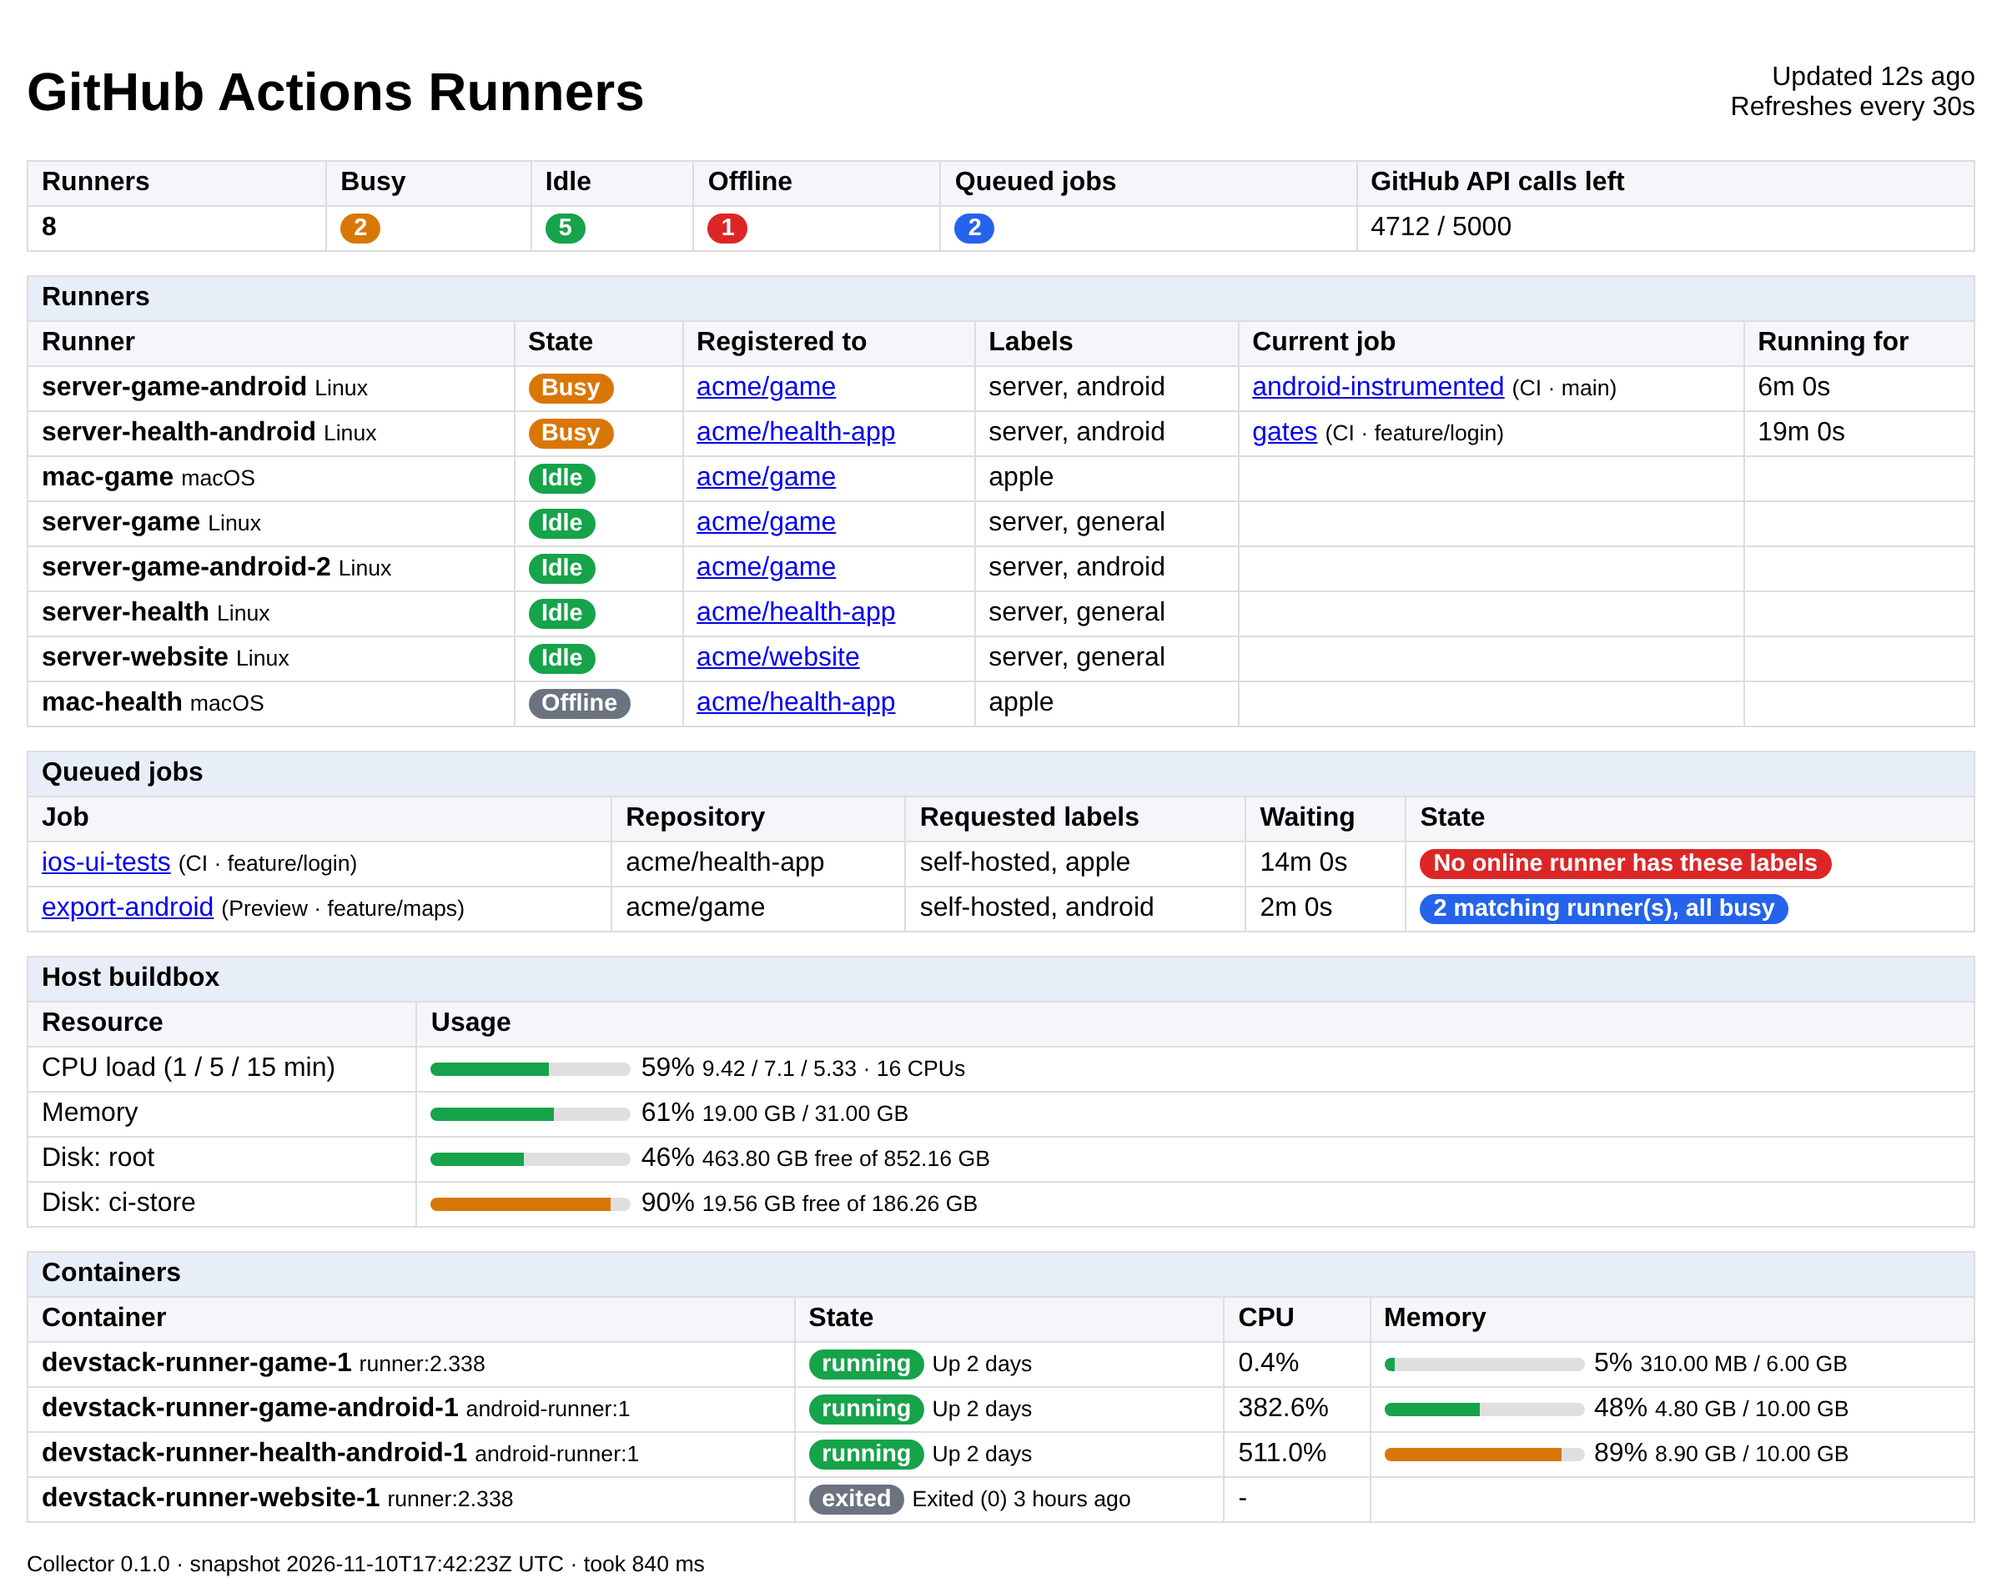
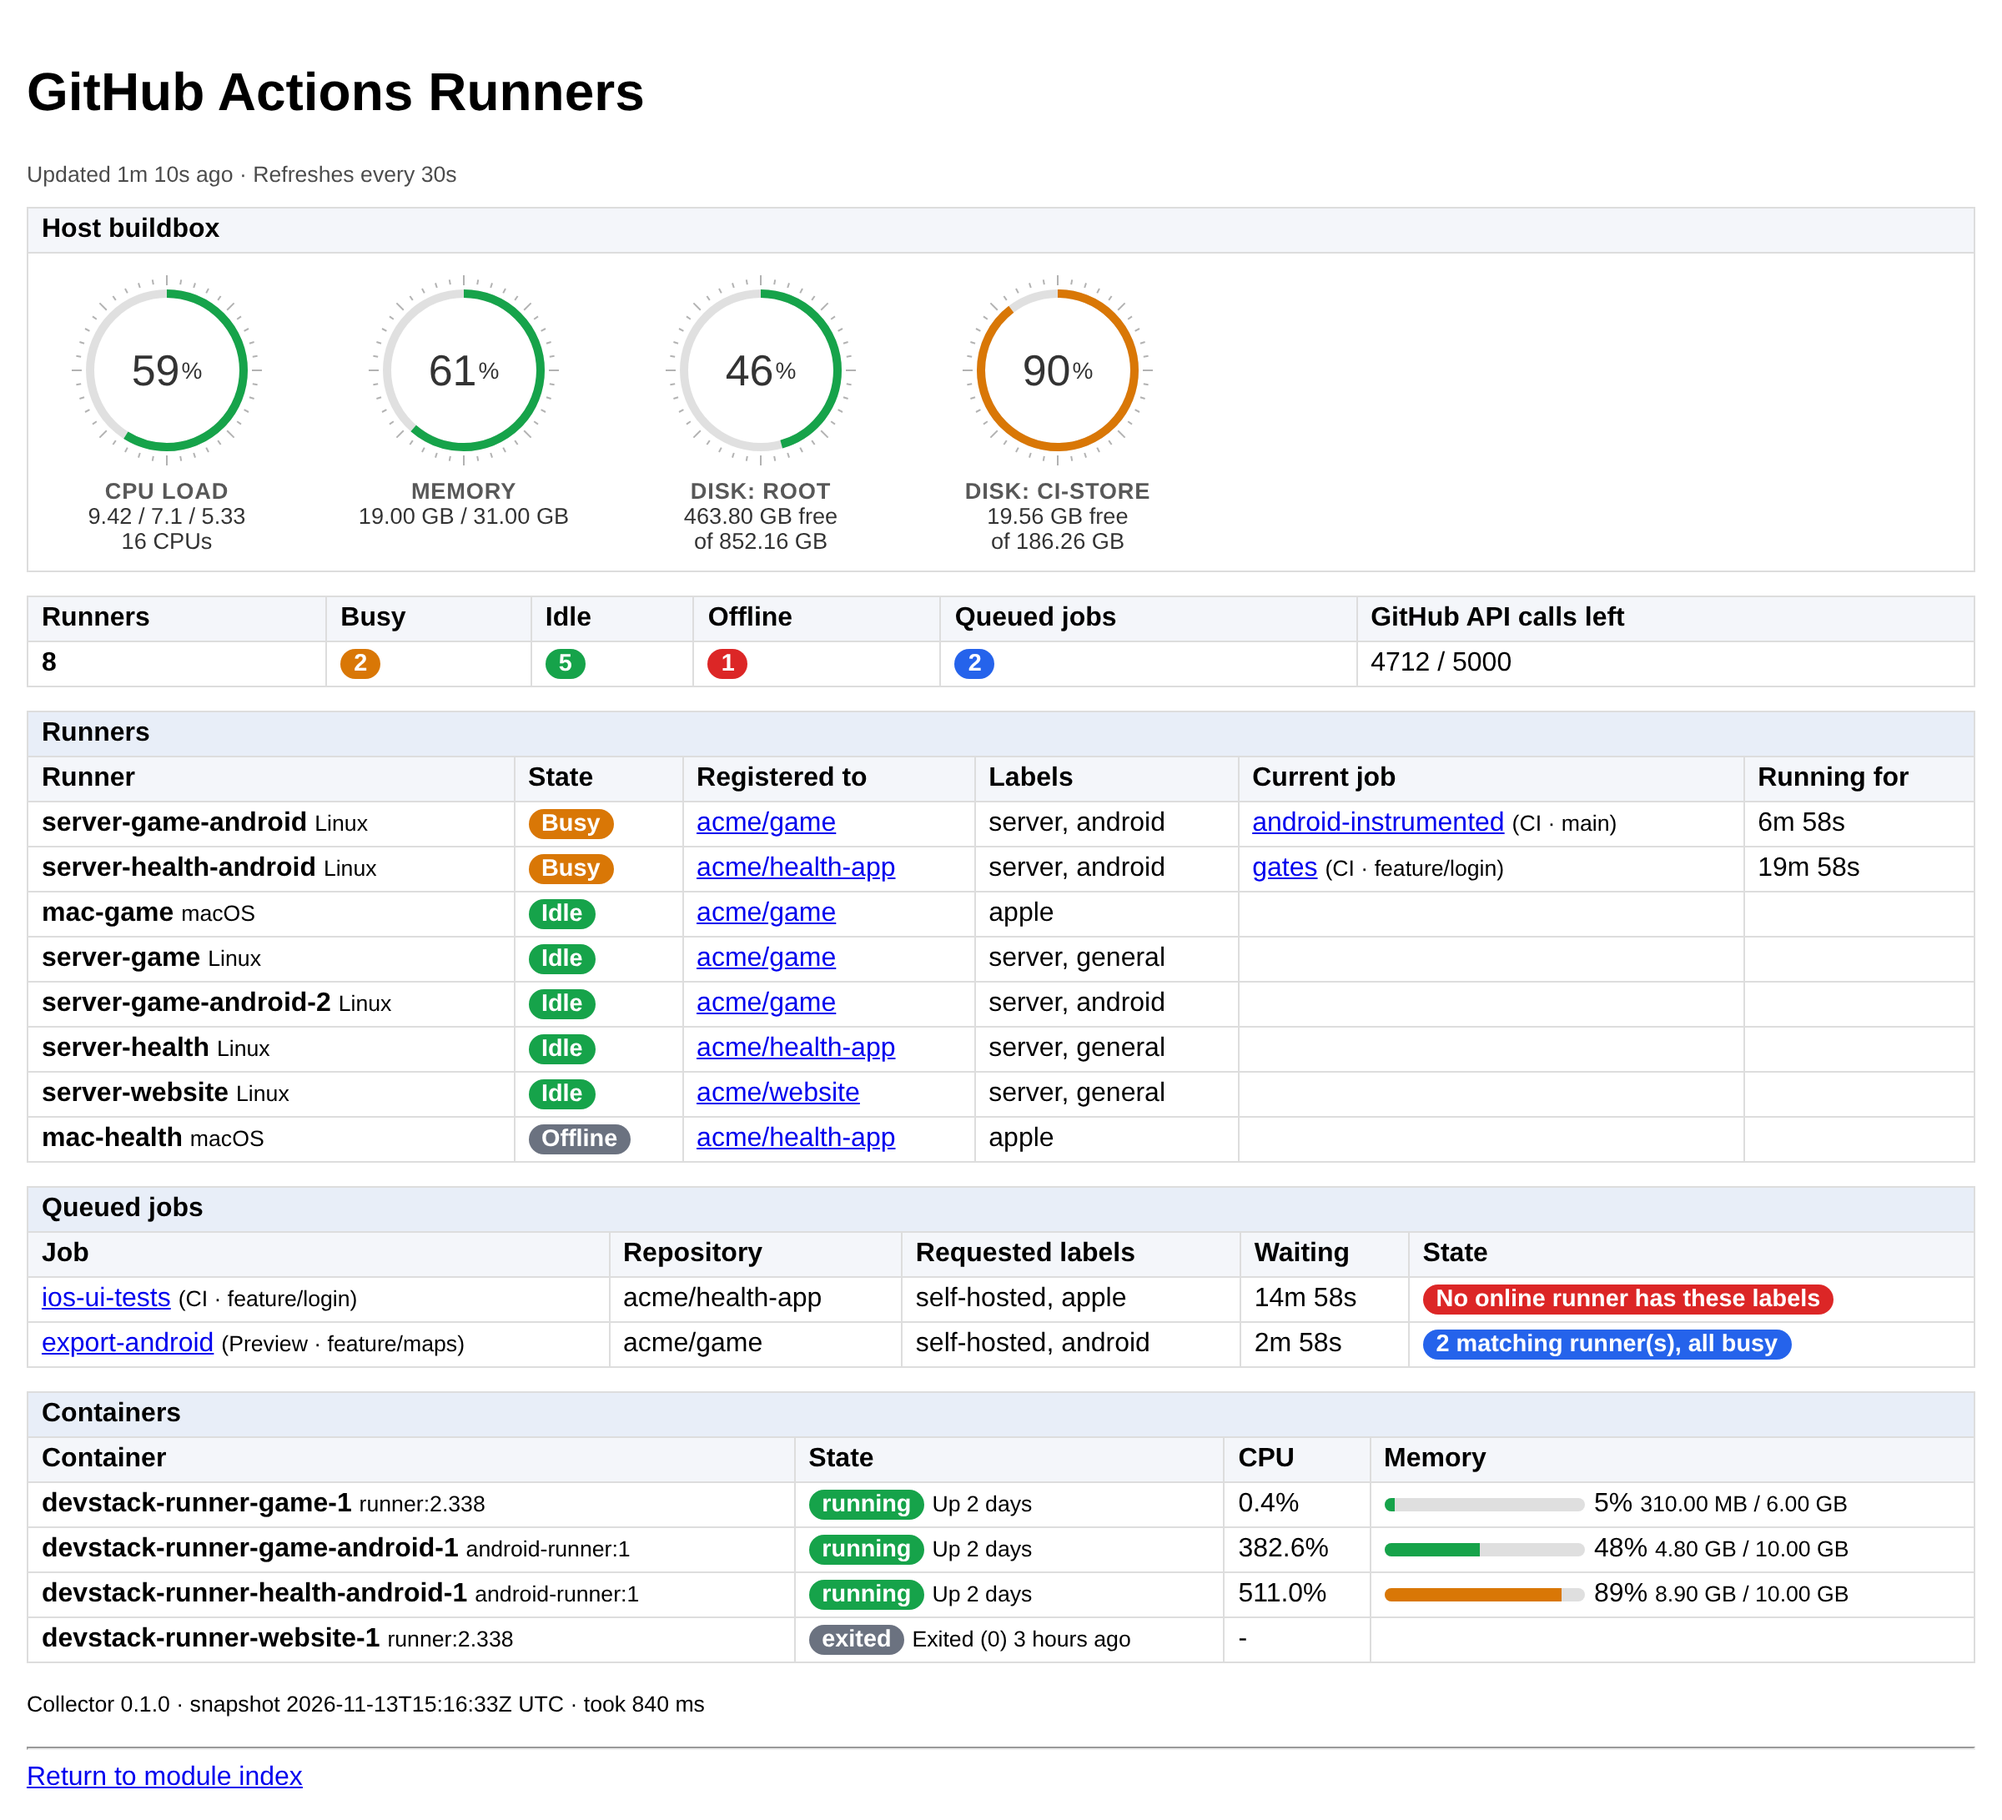
Show host resources first, as ring gauges (#3)
The host section (CPU load, memory, disks) moves to the top of the page
and draws each resource as a ring gauge with the percentage inside and
the details below, in the style of Webmin's dashboard. Green, amber and
red thresholds stay at 75% and 90%. Bumps the module and collector to
0.1.2 and refreshes the README screenshot.

Claude-Session: https://claude.ai/code/session_012PS4VwNuH8Pb1WtWxSRcy4

diff --git a/collector/ghrunners_collector.py b/collector/ghrunners_collector.py
@@ -30,7 +30,7 @@ import urllib.error
 import urllib.parse
 import urllib.request
 
-__version__ = "0.1.1"
+__version__ = "0.1.2"
 SCHEMA_VERSION = 1
 USER_AGENT = f"ghrunners-collector/{__version__}"
 
